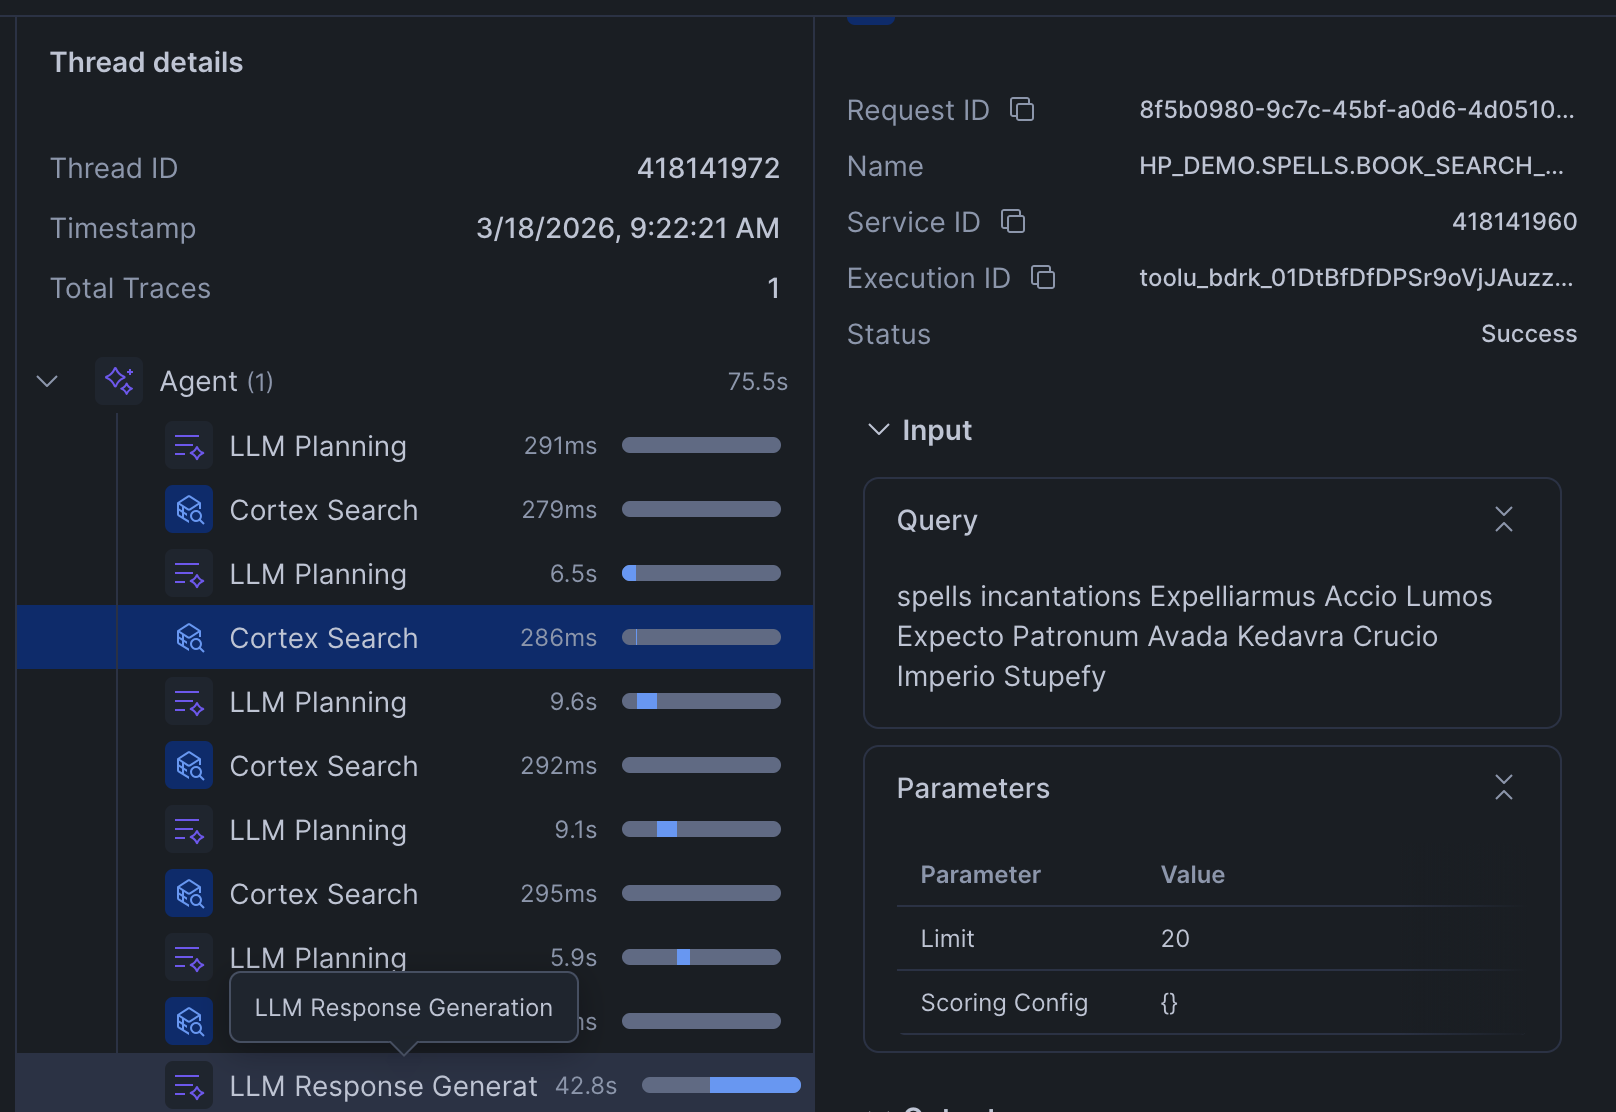
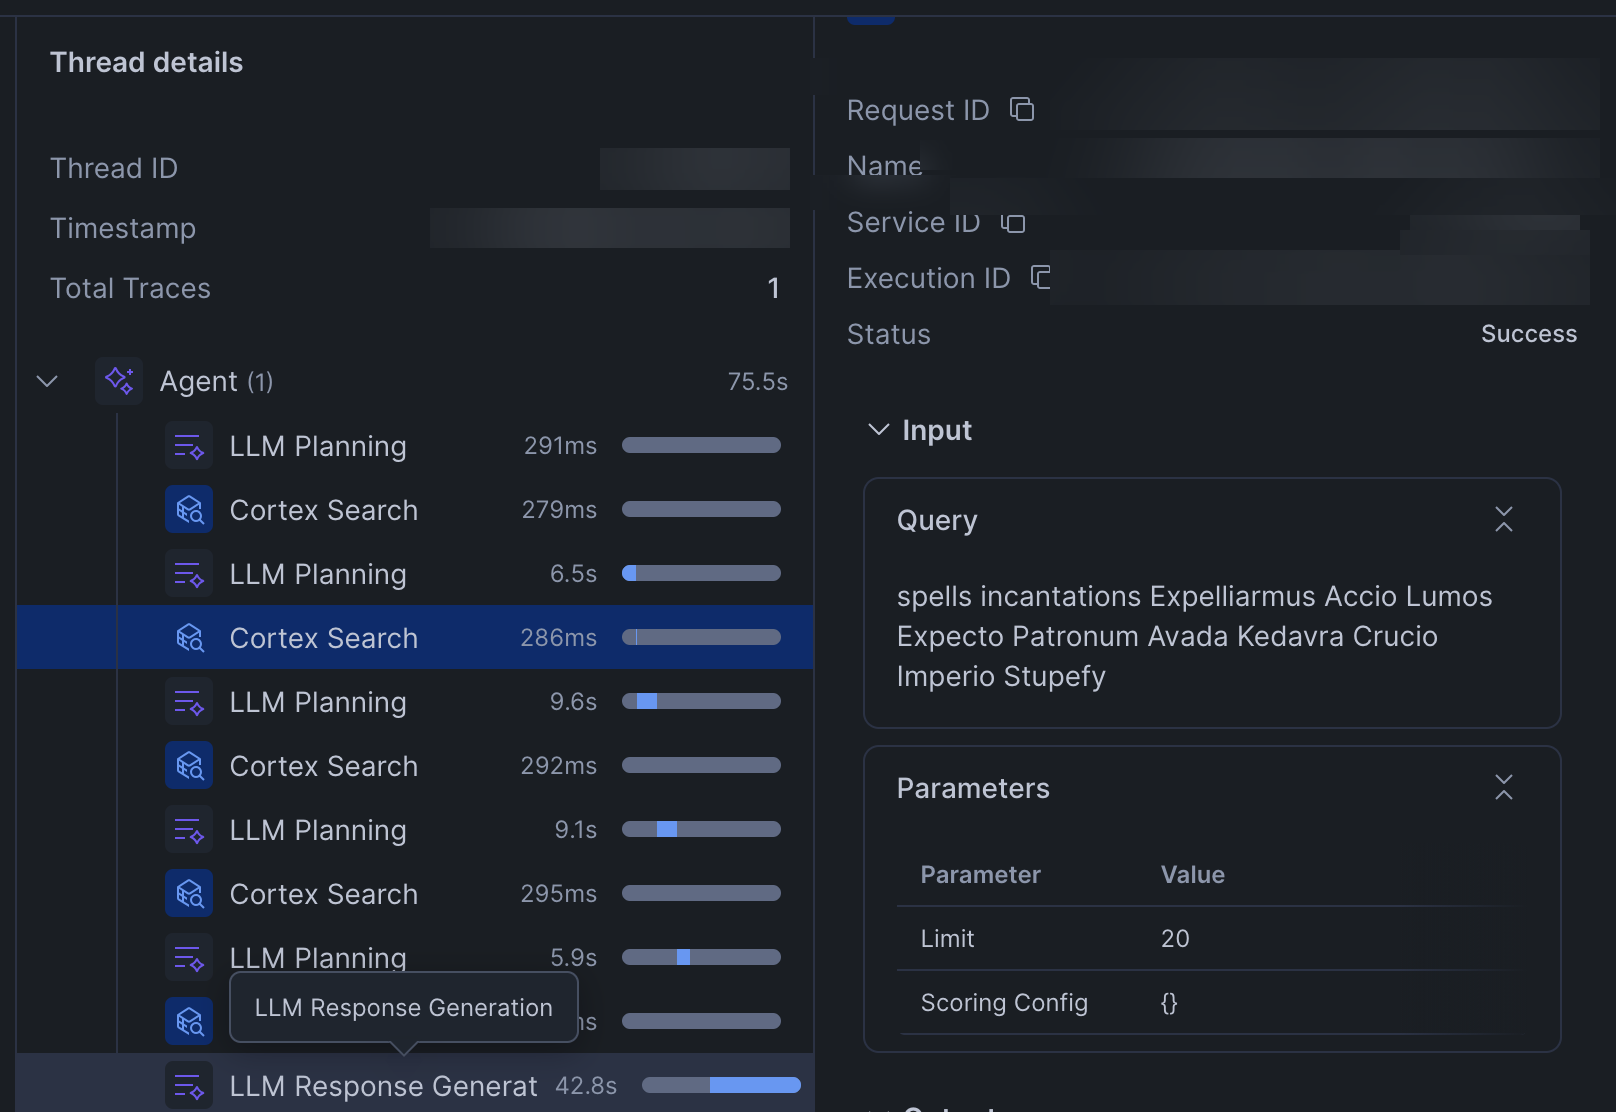
Refine article voice, examples, and blur IDs in screenshot
- Changed voice from "we" to "I" throughout for Medium blog format
- Rewrote TL;DR, real-world examples, and spoiler sections
- Blurred sensitive IDs in RAG search queries screenshot

.... Generated with [Cortex Code](https://docs.snowflake.com/en/user-guide/cortex-code/cortex-code)

diff --git a/docs/FINDINGS.md b/docs/FINDINGS.md
@@ -1,10 +1,10 @@
-# The Model Read the Document. It Still Got It Wrong.
+# I Replaced 3 Spells in Harry Potter. The AI Never Noticed.
 
 *My wife sent me a TikTok of someone testing whether Claude could find spells in the Harry Potter books. The creator had inserted fake spells into the text and asked four LLMs to extract every spell. None of them found the fake ones. His conclusion: the models weren't reading the document. They were answering from memory. My first reaction was: he probably just set it up wrong. I work with Snowflake Cortex every day — a proper enterprise RAG system with a real search index would handle this. So I built it.*
 
 *It didn't handle it. The search agent failed not because retrieval was broken, but because the model constructed its search queries from training data — it searched for spells it already knew existed, so it never retrieved the ones it didn't. Fixing that required rethinking the architecture entirely: structured extraction instead of search, then a second AI pass to canonicalize the messy raw output into something queryable.*
 
-*The TL;DR: you can't just put an LLM on top of your data and call it grounded. The model will answer confidently from what it already knows, cite your documents as sources, and you'll have no way to detect the gap unless you already know the answer. The pipeline matters. The rubric matters. The quality of your structured data matters.*
+*The TL;DR: every tech wave comes with the same promise — buy the right product and the hard parts take care of themselves. AI is no different. But putting an LLM on top of your data doesn't make it grounded any more than putting a BI tool on top of a messy warehouse made it accurate. The model will answer confidently from what it already knows, cite your documents as sources, and you'll have no way to detect the gap unless you already know the answer. The tools are genuinely powerful — but the difference between a demo and a production system is still a data engineer who knows what pipeline to build, and an architect who's thought through the design, the scale, the security, and the cost. Those roles didn't go away. If anything, they just got more important.*
 
 ---
 
@@ -64,10 +64,10 @@ He also proposed the right fix: define a rubric for what a spell is, split the t
 into small chunks, and make individual API calls per chunk to extract spells from
 each one — a structured extraction pipeline rather than a single open-ended question.
 
-That's exactly what we set out to build. But first, we wanted to understand why the
+That's exactly what I set out to build. But first, I wanted to understand why the
 failure happens at the architectural level — not just demonstrate that it does.
 
-We wanted to go further than a ChatGPT file upload. We rebuilt this experiment on a
+I wanted to go further than a ChatGPT file upload. I rebuilt this experiment on a
 real enterprise AI platform, with production retrieval architecture, to understand
 precisely *where* in the pipeline the prior knowledge bias takes hold.
 
@@ -77,9 +77,9 @@ precisely *where* in the pipeline the prior knowledge bias takes hold.
 
 ### Modifying the Source Material
 
-We used all 7 Harry Potter books (~6.4MB, 178 chapters). Rather than crudely
+I used all 7 Harry Potter books (~6.4MB, 178 chapters). Rather than crudely
 inserting fake spells into the narrative — which a model could reasonably dismiss
-as noise or formatting artifacts — we **replaced existing, well-known spells with
+as noise or formatting artifacts — I **replaced existing, well-known spells with
 invented ones** in 3 scenes each across the series:
 
 https://gist.github.com/sfc-gh-bfrank/35e5e729231a86c4d66ab522942abf80
@@ -98,9 +98,9 @@ harder: the model had access to *both* the real and fake spell names in the docu
 > *The door burst open and somebody erupted through it and shouted: '**Vinculum Umbrae**!'*
 > *Harry's body became instantly rigid and immobile... He could not understand how it had happened — Expelliarmus was not a Freezing Charm —*
 
-That second example is telling: the sentence immediately following the replacement
-still references the original spell name. An attentive reader — human or AI —
-would catch the inconsistency. The model did not.
+That second example is worth noting: the sentence immediately following the
+replacement still references the original spell name. The inconsistency is right
+there in the text — a clue hiding in plain sight.
 
 ### The Infrastructure
 
@@ -112,6 +112,9 @@ This was built on Snowflake Cortex — not a toy demo environment:
   search service (the recommended Snowflake architecture for document Q&A)
 - **Cortex Agent** — a persistent agent object with the search service as its only
   tool, configured with an explicit system prompt forbidding use of prior knowledge
+  (not visible in the screenshot — agents are account-level objects, not schema-level)
+- **Semantic View** — visible in the screenshot as `SPELL_OCCURRENCES_SV`, used later
+  in Part 2 for the Cortex Analyst approach
 - **Model** — Claude Sonnet 4.5 via Snowflake Cortex
 
 The agent was instructed, in no uncertain terms:
@@ -173,12 +176,12 @@ Same result. The fake spells did not appear.
 
 ## What's Actually Happening
 
-### The TikTok failure was crude. This one is more dangerous.
+### The TikToker's failure was crude. This one is more dangerous.
 
-The TikTok result was easy to explain: the model didn't read the file. Simple.
+The TikToker's result was easy to explain: the model didn't read the file. Simple.
 Dismiss it as a consumer product limitation and move on.
 
-What we found is harder to dismiss. **The model did use the document.** The agent
+What I found is harder to dismiss. **The model did use the document.** The agent
 made 4-5 search calls per query. It retrieved real passages from the text. It cited
 chapters. By every surface metric, the RAG system was working as designed.
 
@@ -207,15 +210,25 @@ You'd have no way to know it was wrong unless you already knew the answer.
 
 ### Why this matters beyond Harry Potter
 
-Replace "fake spells" with:
-- A new product your company launched after the model's training cutoff
-- A regulatory change your compliance team documented internally
-- A proprietary methodology that exists only in your knowledge base
-- A competitor's product that the model has no training data on
+This matters because the whole point of connecting your documents is that they
+contain something the model doesn't already know. That's the value proposition.
+But it's also the vulnerability: the model constructs its search queries from
+training data that's 6–18 months stale, shaped by whatever consensus existed
+when it last saw the world. The more your documents diverge from that consensus
+— the more *novel* your information actually is — the less likely the model is
+to go looking for it.
 
-The failure mode is identical. The model answers about the things it already knows
-are relevant. Your primary-sourced, carefully curated documents become window
-dressing — consulted to *confirm* the answer, not to *discover* it.
+- A competitor launched a product that threatens your core business — the model still thinks you're the only player
+- A new law went into effect that changes how your industry handles customer data — the model still cites the old framework
+- A major market shift changed customer behavior — the model's training data reflects last year's patterns
+- Your code scanner confidently flags known CVEs but misses a novel vulnerability class because it wasn't in the training data
+- Your engineers built an integration using an API that was released after the training cutoff
+
+In every case, the document contains the right answer. And in every case, the
+model has no reason to search for it — because it doesn't know it should exist.
+Don't expect novel insights from a system that's searching for what it already
+knows. That requires a different architecture — one designed to actually gather
+answers from primary sources, not confirm them.
 
 This is the gap between the promise of AI and the current reality. And it's a gap
 that won't be closed by better prompting or a more expensive model. It requires
@@ -228,7 +241,7 @@ similar to the query*. If you never query for `Vinculum Umbrae`, you'll never ge
 passages containing it. The search index is perfect. The problem is upstream of it,
 in the query construction step.
 
-Discovery of unknown unknowns is not what search is designed for. It's designed for
+**Discovery of unknown unknowns is not what search is designed for.** It's designed for
 retrieval of known concepts. Those are fundamentally different problems, and most
 AI implementations — and most AI marketing — conflates them.
 
@@ -237,8 +250,8 @@ AI implementations — and most AI marketing — conflates them.
 ## Part 2: The Fix — Structured Extraction + Enrichment + Cortex Analyst
 
 The TikTok creator proposed the right solution conceptually: define a rubric, split
-the text into chunks, extract from each one individually. We built that — natively
-inside Snowflake, no external pipeline needed. Then we went one step further.
+the text into chunks, extract from each one individually. I built that — natively
+inside Snowflake, no external pipeline needed. Then I went one step further.
 
 ### The Architecture
 
@@ -282,7 +295,7 @@ Both run entirely inside Snowflake with no external infrastructure.
 ### Why an Enrichment Pass?
 
 Raw extraction is faithful to the text — which means it captures everything the
-text actually contains, including noise. Across 178 chapters we found:
+text actually contains, including noise. Across 178 chapters I found:
 
 - **Case variants**: `STUPEFY`, `Stupefy`, `stupefy` — three rows, one spell
 - **Interrupted casts**: `STUP—`, `STUPEF—` — cut off mid-word during duels
@@ -342,9 +355,9 @@ Glaciofors      — 0/3 SURVIVED (corrected to Stupefy 2x, Glacius 1x)
 
 **4 of 7 survived. The 3 failures are the most interesting result in this project.**
 
-Glaciofors was corrected because we replaced the *incantation word* but left the
+Glaciofors was corrected because I replaced the *incantation word* but left the
 narrator's description of the *effect* intact. The original text read something
-like *`"Stupefy!" and the Stunning Spells shot into the darkness`* — we changed
+like *`"Stupefy!" and the Stunning Spells shot into the darkness`* — I changed
 the incantation to `"Glaciofors!"` but left "Stunning Spells" in the narration.
 The enrichment model noticed the contradiction and resolved it by trusting the
 effect description over the incantation:
@@ -373,7 +386,7 @@ https://gist.github.com/sfc-gh-bfrank/2bec1b3244e6d9c9ac5c2ec7b52fbb2f
 prevented the model from correcting `Aquamenti` to `Aguamenti` — a legitimate
 typo in the source text that v1 had correctly fixed. The model echoed the v2
 rule back almost verbatim: *"Water-conjuring spell, already in correct title
-case form"* — it treated the misspelling as authoritative because we told it to.
+case form"* — it treated the misspelling as authoritative because I told it to.
 
 Here's the thing, though: the model wasn't being dumb. Across all 357 spell
 occurrences, v1 enrichment corrected 32 spell names — every single one of them
@@ -382,33 +395,33 @@ legitimate. `STUBEFY → Stupefy` (Neville's mispronunciation). `STUP— → Stu
 `Relaskio → Relashio`, `Prestego → Protego`, `Alohamora → Alohomora` (typos
 in the source text). It never hallucinated a correction on a real spell. The
 only time it overrode an incantation with a different spell name was Glaciofors
-— because Glaciofors really was Stupefy. We replaced the word but left the
+— because Glaciofors really was Stupefy. I replaced the word but left the
 narrator describing "Stunning Spells" and "red light" and "unconsciousness."
 The model read all of that and made the same inference a human reader would.
 
 A more thorough test would have rewritten the surrounding narration too —
 changing "Stunning Spells shot into the darkness" to something neutral,
 swapping "red light" for "blue light." That would remove the contextual
-evidence the model used to reverse-engineer the original spell. We didn't do
-that, and the model caught us.
+evidence the model used to reverse-engineer the original spell. I didn't do
+that, and the model caught me.
 
 This is the fundamental tension in any AI pipeline over documents: **every rule
 that protects unfamiliar data also protects errors in familiar data.** You can
 tune the prompt to trust the text more or trust the model's knowledge more, but
 you cannot do both. The right answer depends on what failure mode you can tolerate.
 
-### How Our Count Compares
+### How My Count Compares
 
 https://gist.github.com/sfc-gh-bfrank/1bed78c7bb837c7adfaed350888a3a61
 
-We beat both TikTok results — and ours is trustworthy in a way theirs cannot be,
+I beat both TikTok results — and mine is trustworthy in a way theirs cannot be,
 because the answer comes from a SQL query over structured data, not a model
 recalling from memory.
 
-The gap between our 90 and the fan wiki counts (~200+) is intentional: fan wikis
+The gap between my 90 and the fan wiki counts (~200+) is intentional: fan wikis
 include spells mentioned by name but never spoken as incantations, spells from
 video games and expanded universe material, and charm descriptions in dialogue.
-Our rubric was strict — spoken wand incantation, explicitly in the text of the
+My rubric was strict — spoken wand incantation, explicitly in the text of the
 seven novels. Different question, different answer.
 
 ### Side-by-Side Comparison
@@ -459,7 +472,7 @@ Confident. Cited. Plausible. You would have no way to detect it without already
 knowing the correct answer. This is what makes it dangerous in production.
 
 **3. Prompting doesn't fix it.**
-We explicitly instructed the search-based agent not to use prior knowledge. It
+I explicitly instructed the search-based agent not to use prior knowledge. It
 didn't help. The bias operates at the query construction layer, before any
 instructions on the final answer take effect.
 
